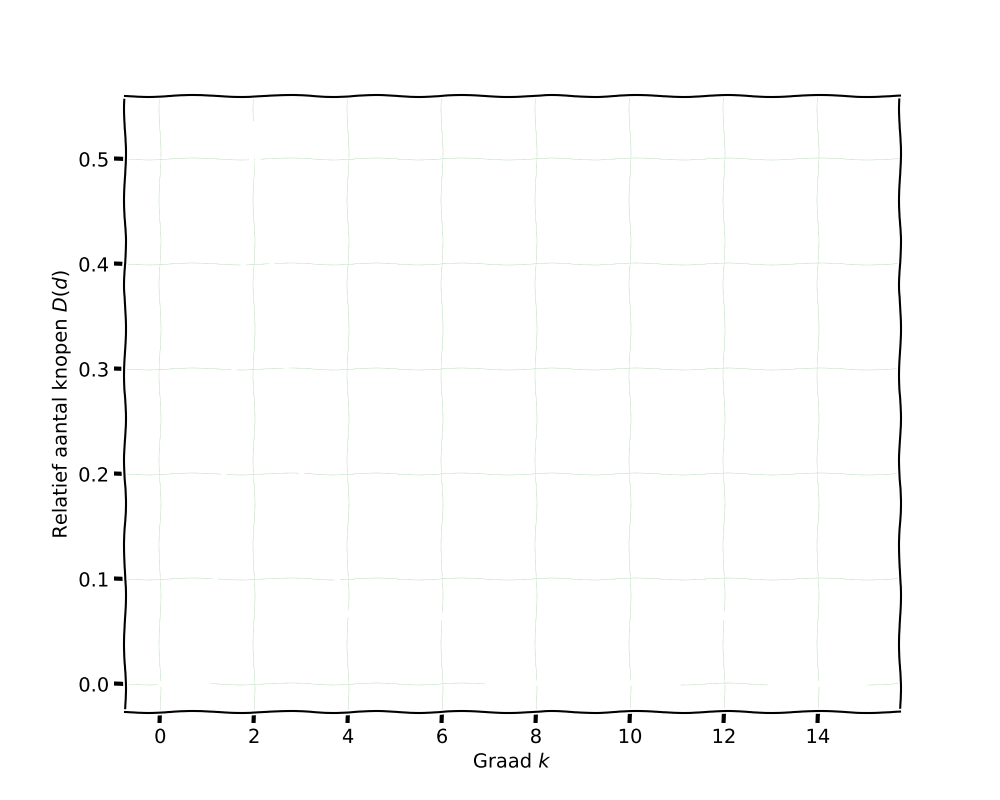
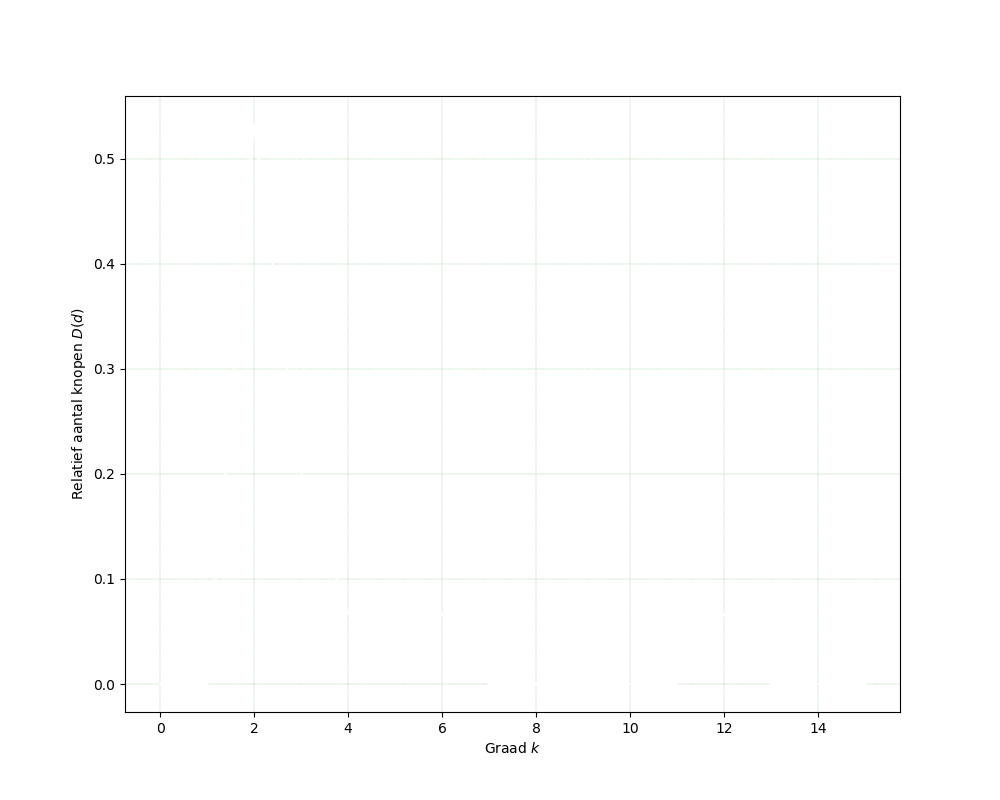
:art: animaties SIR

diff --git a/projectcode/animationsSIR.py b/projectcode/animationsSIR.py
@@ -1,0 +1,146 @@
+"""
+Created on Sunday 27 January 2019
+Last update: -
+
+@author: Michiel Stock
+michielfmstock@gmail.com
+
+Animaties BWD SIR model.
+"""
+
+# Animaties
+# ---------
+
+import matplotlib.pyplot as plt
+from matplotlib.animation import FuncAnimation
+from sklearn.metrics.pairwise import pairwise_distances
+from sklearn.neighbors import BallTree
+import numpy as np
+from random import sample
+
+# KLEUREN
+# -------
+
+blue = blauw = '#264653'
+green = groen = '#2a9d8f'
+yellow = geel = '#e9c46a'
+orange = oranje = '#f4a261'
+red = rood = '#e76f51'
+black = zwart = '#50514F'
+
+np.random.seed(10)
+
+n_points = 100
+r_big = 3
+r_small = 0.25
+neighbors = 3
+coordinates = []
+while len(coordinates) < n_points:
+    x = (np.random.rand(2) - 0.5) * r_big * 4
+    r = np.sum(x**2)**0.5
+    if r < r_big and r > r_small:
+        coordinates.append(x.tolist())
+coordinates = np.array(coordinates)
+balltree = BallTree(coordinates)
+d, ind = balltree.query(coordinates, neighbors+1)
+A = np.zeros((n_points, n_points), dtype=bool)
+for i in range(n_points):
+    for j in ind[i,:]:
+        A[i,j] = True
+        A[j,i] = True
+
+def draw_nodes(ax, colors):
+    ax.scatter(coordinates[:,0], coordinates[:,1], color=colors, zorder=2)
+
+"""
+def make_sir_animation(fig, ax, xinit, timesteps=20):
+    x = xinit.copy()
+    # plot edges graph
+    for i in range(n_points-1):
+        for j in range(i+1, n_points):
+            if A[i,j]:
+                ax.plot(coordinates[[i,j],0], coordinates[[i,j],1], zorder=1, color=blauw,
+                        lw=2, alpha=0.8)
+
+    colors_in_time = []
+    for i in range(timesteps+1):
+        colors = [geel if x[i] == 0 else red for i in range(n_points)]
+        colors_in_time.append(colors)
+        x = A @ x
+    draw_nodes(ax, colors)
+    anim = FuncAnimation(fig, lambda t : draw_nodes(ax, colors_in_time[t]),
+                frames=range(timesteps), interval=100)
+
+    ax.set_yticks([])
+    ax.set_xticks([])
+    return anim
+"""
+
+def plot_sir_step(filename, t, colors):
+    fig, ax = plt.subplots()
+    # draw edges
+    for i in range(n_points-1):
+        for j in range(i+1, n_points):
+            if A[i,j]:
+                ax.plot(coordinates[[i,j],0], coordinates[[i,j],1], zorder=1, color=blauw,
+                        lw=2, alpha=0.8)
+    draw_nodes(ax, colors)
+    ax.set_title("Simulatie op tijdstip {} ({} resistent) \n {} / {} geïnfecteerd".format(
+            t, colors.count(groen), colors.count(red), n_points))
+    ax.set_yticks([])
+    ax.set_xticks([])
+    fig.savefig("figuren/SIRanimatiesplots/{}_{}.png".format(filename, t))
+    fig.clf()
+    """
+    # plot points
+    for x1, x2 in coordinates:
+        ax.scatter(x1, x2, color=green, s=50, zorder=2)
+
+    # make animation
+    return anim
+    """
+
+
+xinit = np.zeros((n_points))
+xinit[:5] = 1
+
+x = xinit.copy()
+filename = "sir_sim_no_R_"
+for t in range(11):
+    colors = [geel if x[i] == 0 else red for i in range(n_points)]
+    plot_sir_step(filename, t, colors)
+    x = A @ x
+
+x = xinit.copy()
+filename = "sir_sim_R0.2"
+resistent = sample(range(5,  n_points), int(n_points * 0.2))
+for t in range(11):
+    colors = [geel if x[i] == 0 else red for i in range(n_points)]
+    for i in resistent:
+        colors[i] = groen
+    plot_sir_step(filename, t, colors)
+    x = A @ x > 0
+    x[resistent] = 0
+
+
+x = xinit.copy()
+filename = "sir_sim_R0.6"
+resistent = sample(range(5,  n_points), int(n_points * 0.6))
+for t in range(11):
+    colors = [geel if x[i] == 0 else red for i in range(n_points)]
+    for i in resistent:
+        colors[i] = groen
+    plot_sir_step(filename, t, colors)
+    x = A @ x > 0
+    x[resistent] = 0
+
+x = xinit.copy()
+filename = "sir_sim_R0.8"
+resistent = sample(range(5,  n_points), int(n_points * 0.8))
+for t in range(11):
+    colors = [geel if x[i] == 0 else red for i in range(n_points)]
+    for i in resistent:
+        colors[i] = groen
+    plot_sir_step(filename, t, colors)
+    x = A @ x > 0
+    x[resistent] = 0

diff --git a/projectcode/ziekteverspreiding.py b/projectcode/ziekteverspreiding.py
@@ -72,7 +72,7 @@ def simuleer_uitbraak(n, initgeinf, netwerk, fractie_gevac, strategie):
     elif netwerk == "schaalvrij":
         G = nx.barabasi_albert_graph(n=n, m=2)
     else:
-        raise(AttributeError("Netwerk is ofwel 'willeurig' of 'schaalvrij'"))
+        raise(AttributeError("Netwerk is ofwel 'willekeurig' of 'schaalvrij'"))
     A = geef_verbindingsmatrix(G)
     posities = nx.spring_layout(G)
     x = np.zeros((n, 1), dtype=int)
@@ -143,7 +143,7 @@ def printtoestandtabel(n, t):
 
 if __name__ == '__main__':
     import matplotlib.pyplot as plt
-    plt.xkcd()
+    #plt.xkcd()
 
     # Voorbeeld netwerk
     # -----------------
